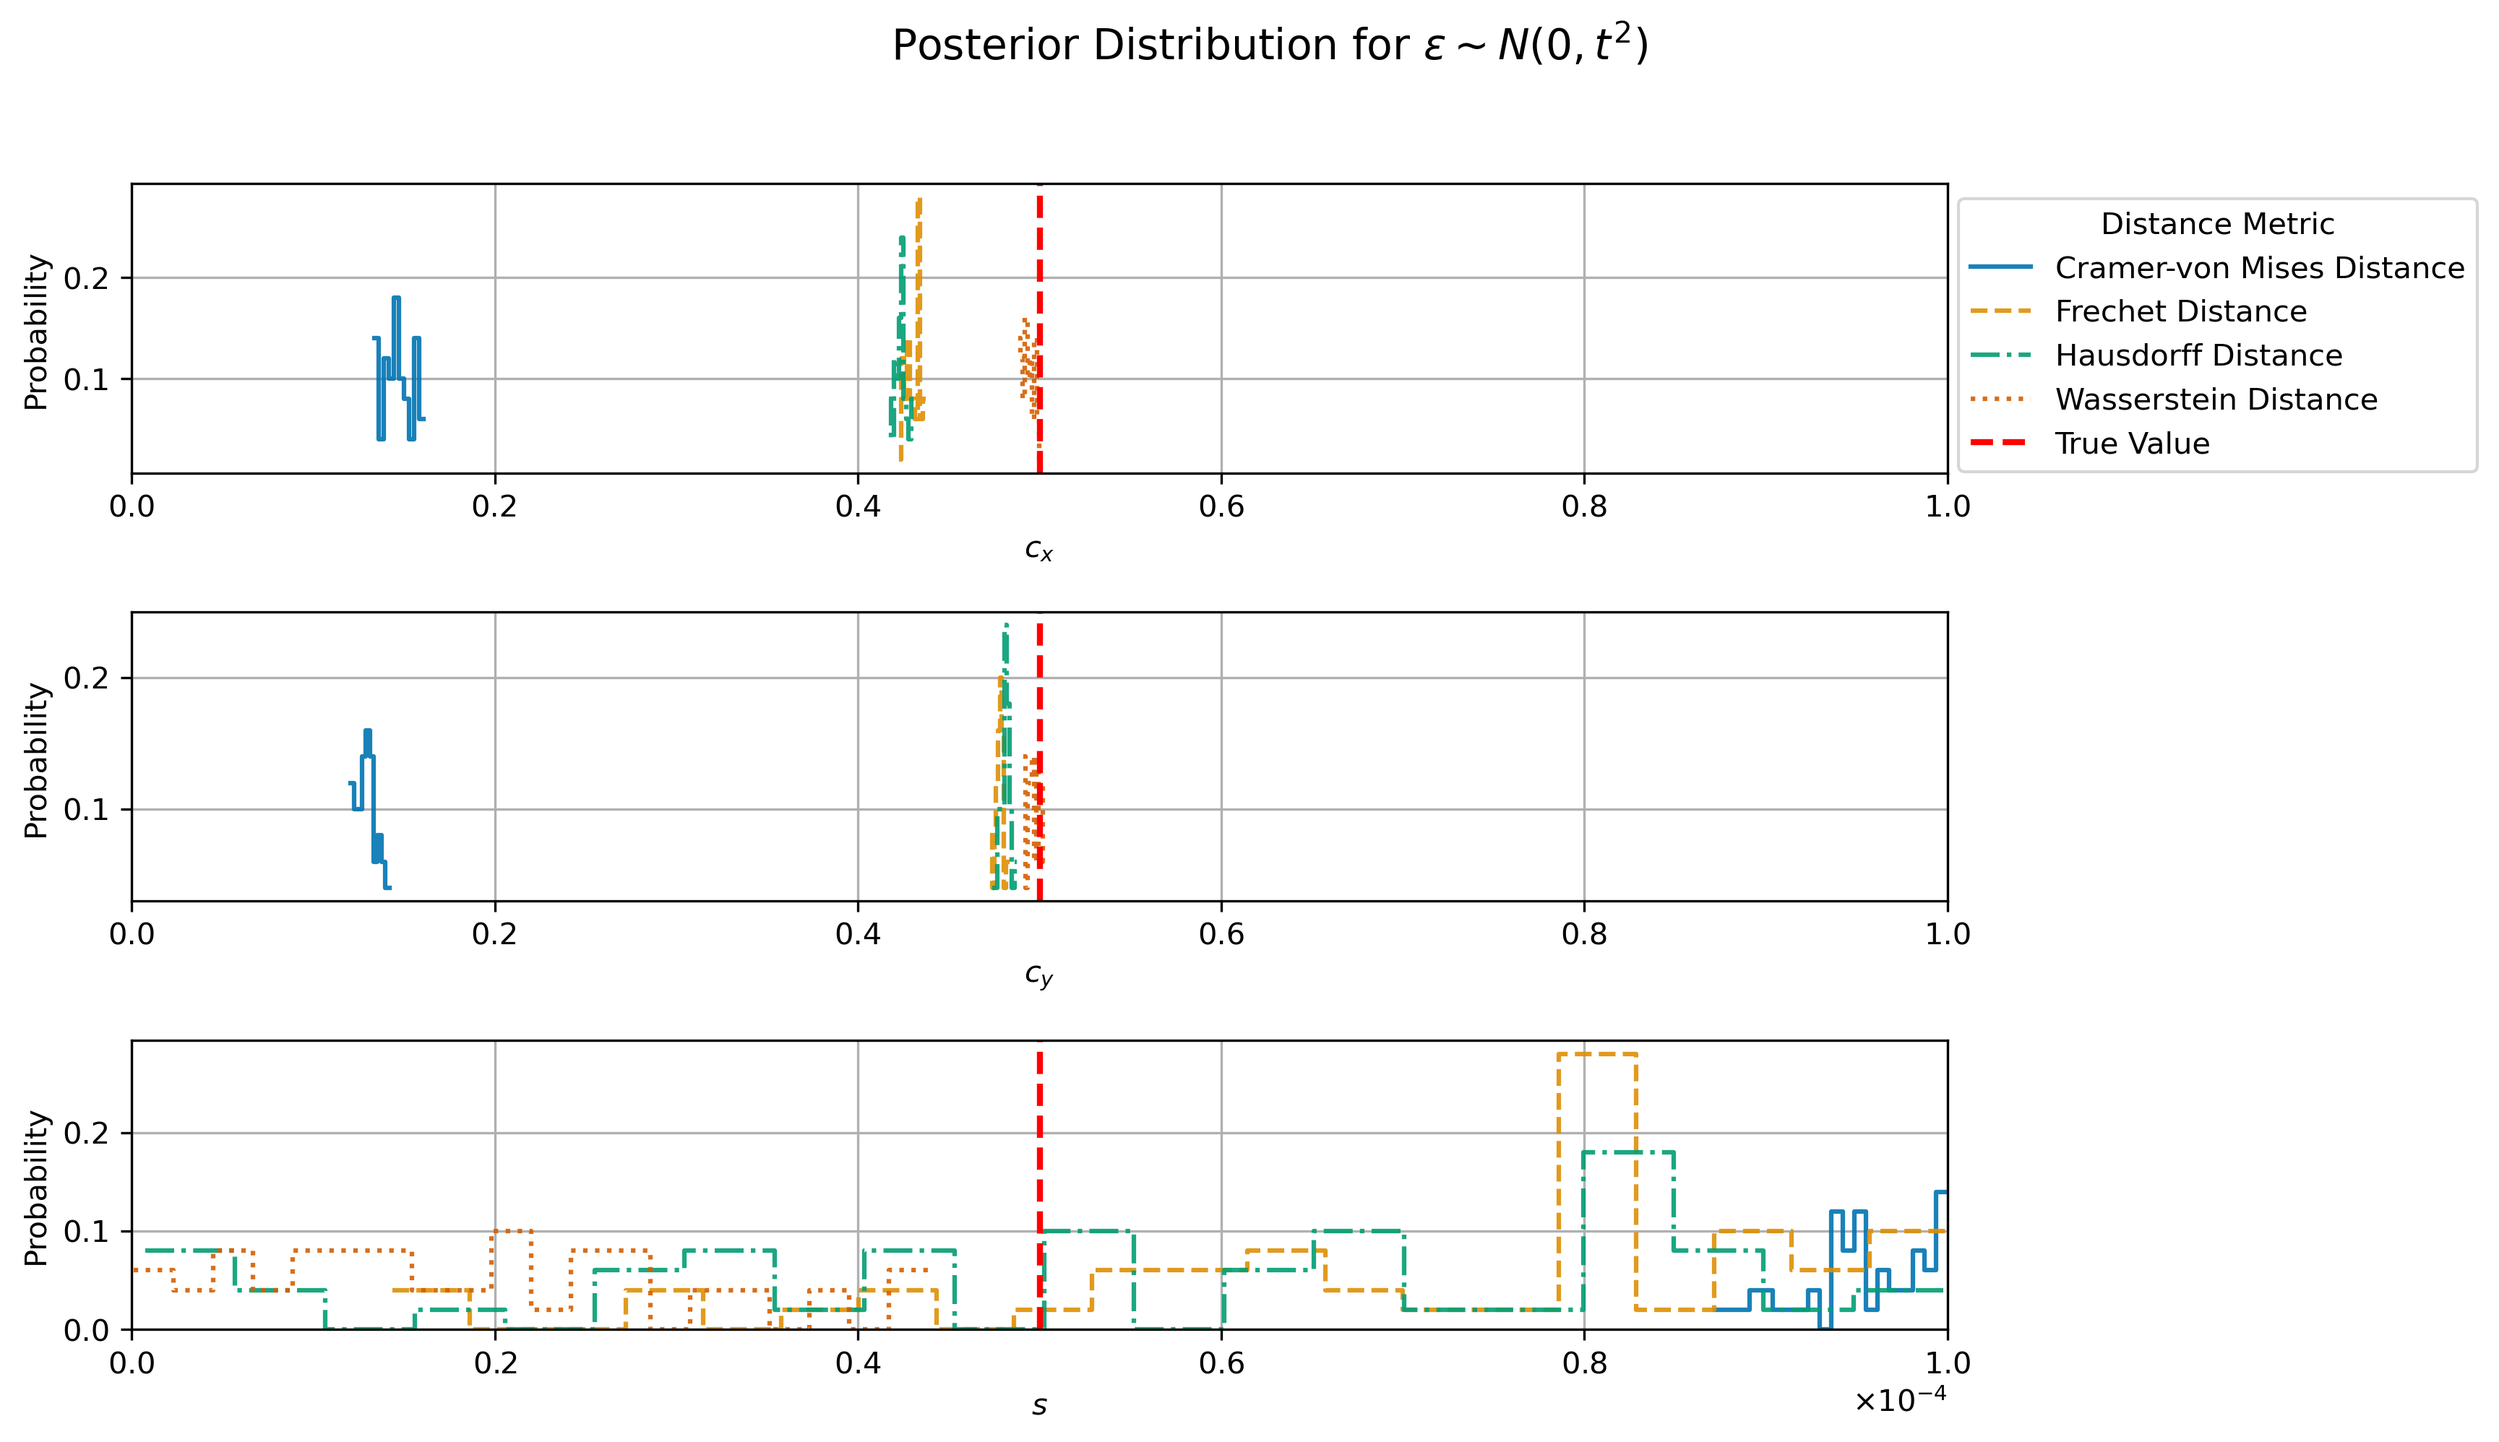
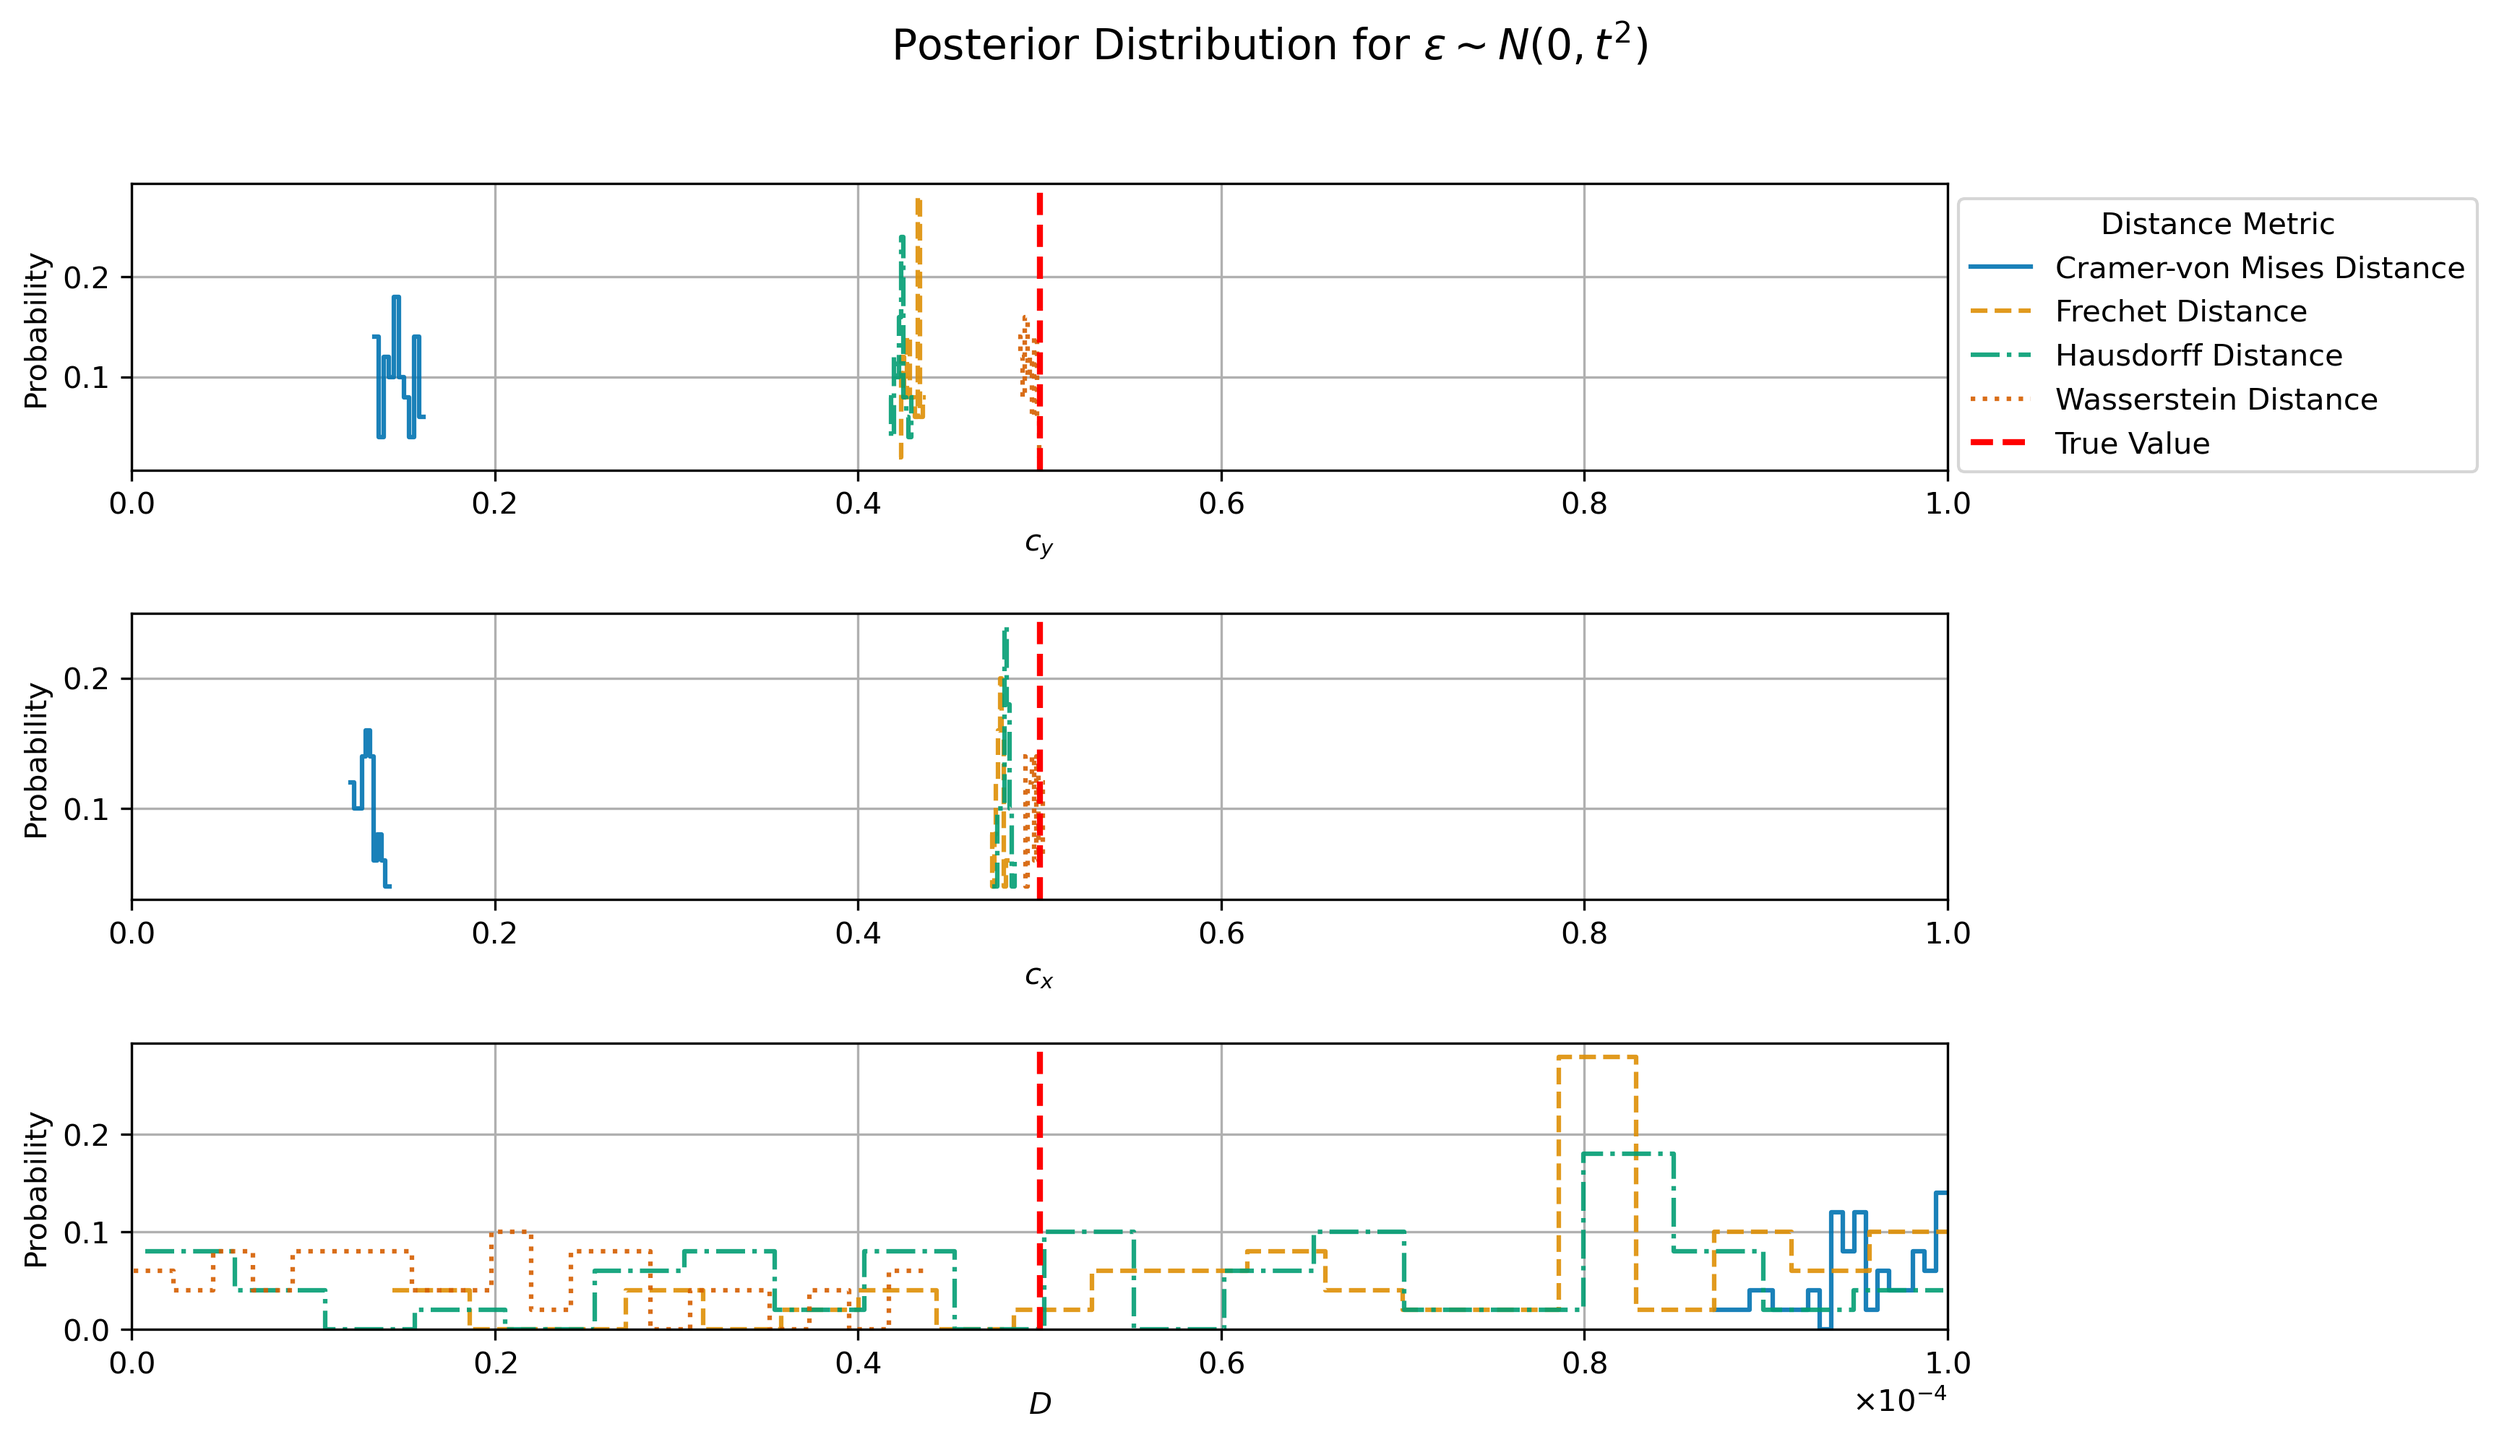
modified parameters in figures.

diff --git a/gaussian_plume/run_posterior_dist.py b/gaussian_plume/run_posterior_dist.py
@@ -9,10 +9,10 @@ RUN_PATH = "./gaussian_plume/runs"
 SAVE_PATH = "./gaussian_plume/plots"
 OBSERVED_PATH = "./gaussian_plume/observed_data/no_noise/no_noise.npy"
 METRICS = ["Cramer-von Mises Distance", "Frechet Distance", "Hausdorff Distance", "Wasserstein Distance"]
-MODELS = ["no_noise", "linear_noise", "0.025_noise", "0.05_noise", "0.075_noise", "no_noise_diffusion", "no_noise_5e-3_advection", "no_noise_calm_air",
-          "case_study_no_advection", "case_study_no_advection_normalised", "case_study_with_advection_U(0,0.014)"]
+MODELS = ["no_noise", "linear_noise", "0.025_noise", "0.05_noise", "0.075_noise", "no_noise_diffusion", "no_noise_calm_air",
+          "case_study_no_advection", "case_study_with_advection", "case_study_with_advection_U(0,0.014)"]
 NPARAMS = 3
-PARAMS = ["$c_x$", "$c_y$", "$s$"]
+PARAMS = ["$c_y$", "$c_x$", "$D$"]
 THRESHOLD = 0.00005
 TRUE_VALUES = [0.5, 0.5, 5e-5]
 TRUE_VALUES_DIFFUSION = [0, 0, 5e-5]
@@ -48,8 +48,8 @@ if __name__ == "__main__":
         
         if model == "no_noise_diffusion":
             true_values = TRUE_VALUES_DIFFUSION
-        elif model == "no_noise_5e-3_advection":
-            true_values = TRUE_VALUES_ADVECTION
+        # elif model == "no_noise_5e-3_advection":
+        #     true_values = TRUE_VALUES_ADVECTION
         elif model == "no_noise_calm_air":
             true_values = TRUE_VALUES_CALM_AIR
         else:

diff --git a/gaussian_plume/median_boxplot.py b/gaussian_plume/median_boxplot.py
@@ -57,7 +57,7 @@ if __name__ == "__main__":
 
         # Plot boxplots for cx, cy, and s
         axes[0].boxplot(cx_data, labels=labels)
-        axes[0].set_title("$c_x$")
+        axes[0].set_title("$c_y$")
         axes[0].set_ylabel("Value")
         if model == "no_noise_diffusion":
             axes[0].axhline(0, linestyle="--", label="True Value",c="r")
@@ -70,7 +70,7 @@ if __name__ == "__main__":
                 axes[0].axhline(0.5, linestyle="--", label="True Value",c="r")
 
         axes[1].boxplot(cy_data, labels=labels)
-        axes[1].set_title("$c_y$")
+        axes[1].set_title("$c_x$")
         if model == "no_noise_diffusion":
             axes[1].axhline(0, linestyle="--", c="r")
         elif model == "no_noise_5e-3_advection":
@@ -82,7 +82,7 @@ if __name__ == "__main__":
                 axes[1].axhline(0.5, linestyle="--", c="r")
 
         axes[2].boxplot(s_data, labels=labels)
-        axes[2].set_title("$s$")
+        axes[2].set_title("$D$")
         if "case_study" not in model:
             axes[2].axhline(5e-5, linestyle="--", c="r")
 
